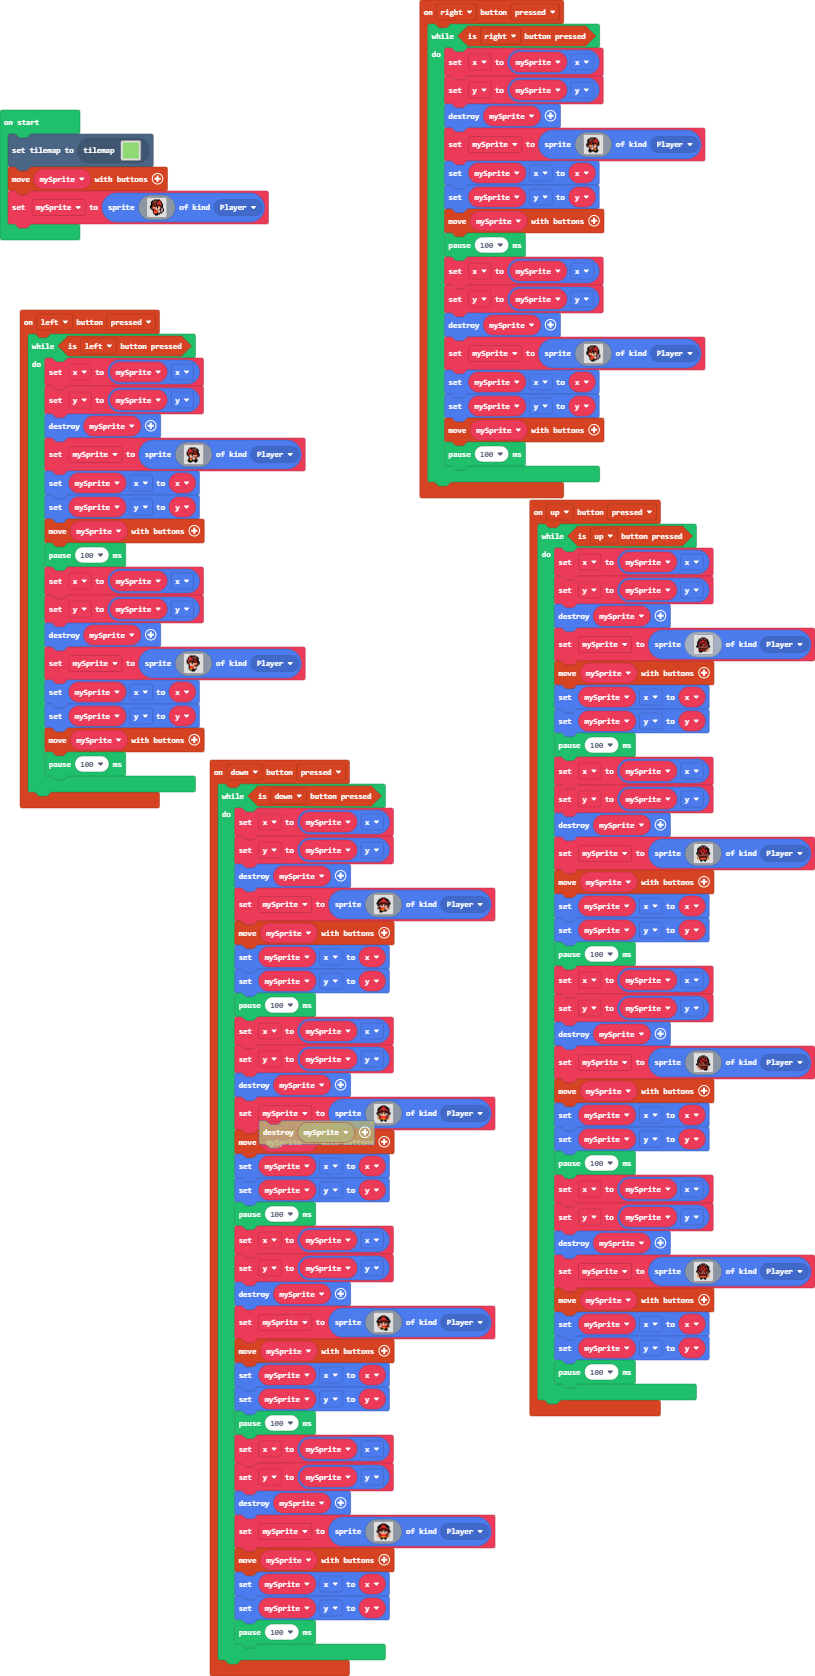
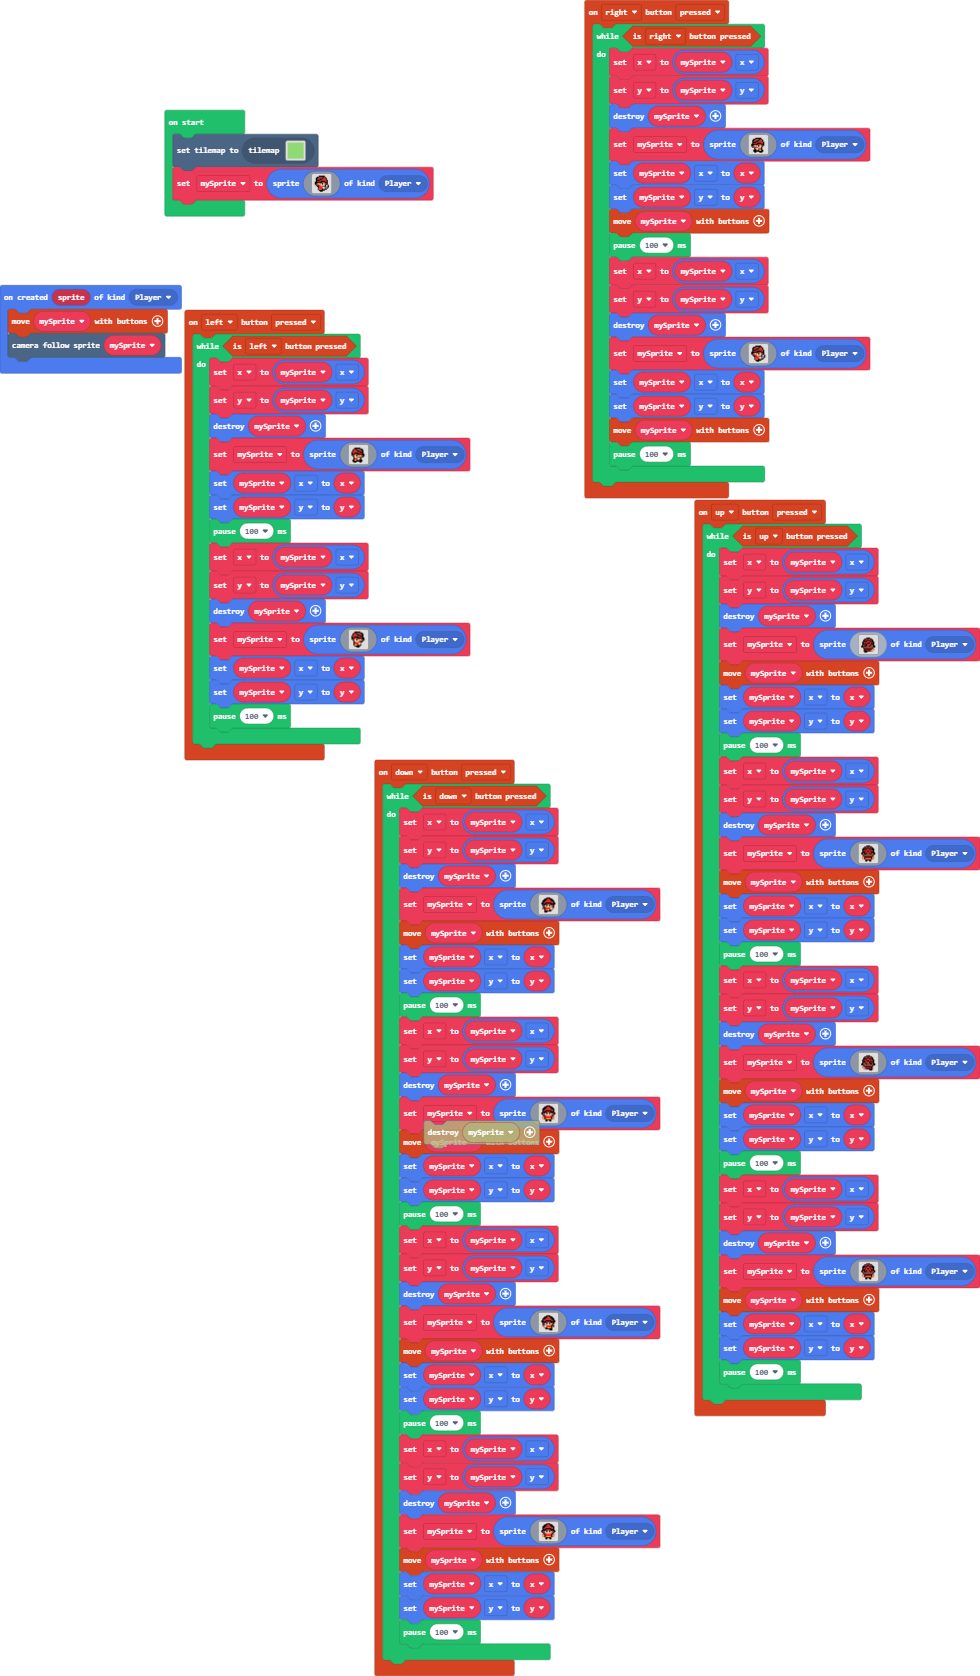
Update main.blocks, main.ts

diff --git a/main.ts b/main.ts
@@ -127,7 +127,6 @@ controller.left.onEvent(ControllerButtonEvent.Pressed, function () {
             `, SpriteKind.Player)
         mySprite.x = x
         mySprite.y = y
-        controller.moveSprite(mySprite)
         pause(100)
         x = mySprite.x
         y = mySprite.y
@@ -152,7 +151,6 @@ controller.left.onEvent(ControllerButtonEvent.Pressed, function () {
             `, SpriteKind.Player)
         mySprite.x = x
         mySprite.y = y
-        controller.moveSprite(mySprite)
         pause(100)
     }
 })
@@ -314,11 +312,14 @@ controller.down.onEvent(ControllerButtonEvent.Pressed, function () {
         pause(100)
     }
 })
+sprites.onCreated(SpriteKind.Player, function (sprite) {
+    controller.moveSprite(mySprite)
+    scene.cameraFollowSprite(mySprite)
+})
 let y = 0
 let x = 0
 let mySprite: Sprite = null
 tiles.setCurrentTilemap(tilemap`level2`)
-controller.moveSprite(mySprite)
 mySprite = sprites.create(img`
     . . . . . f f f f f f . . . . . 
     . . . f f e e e e f 2 f . . . . 
